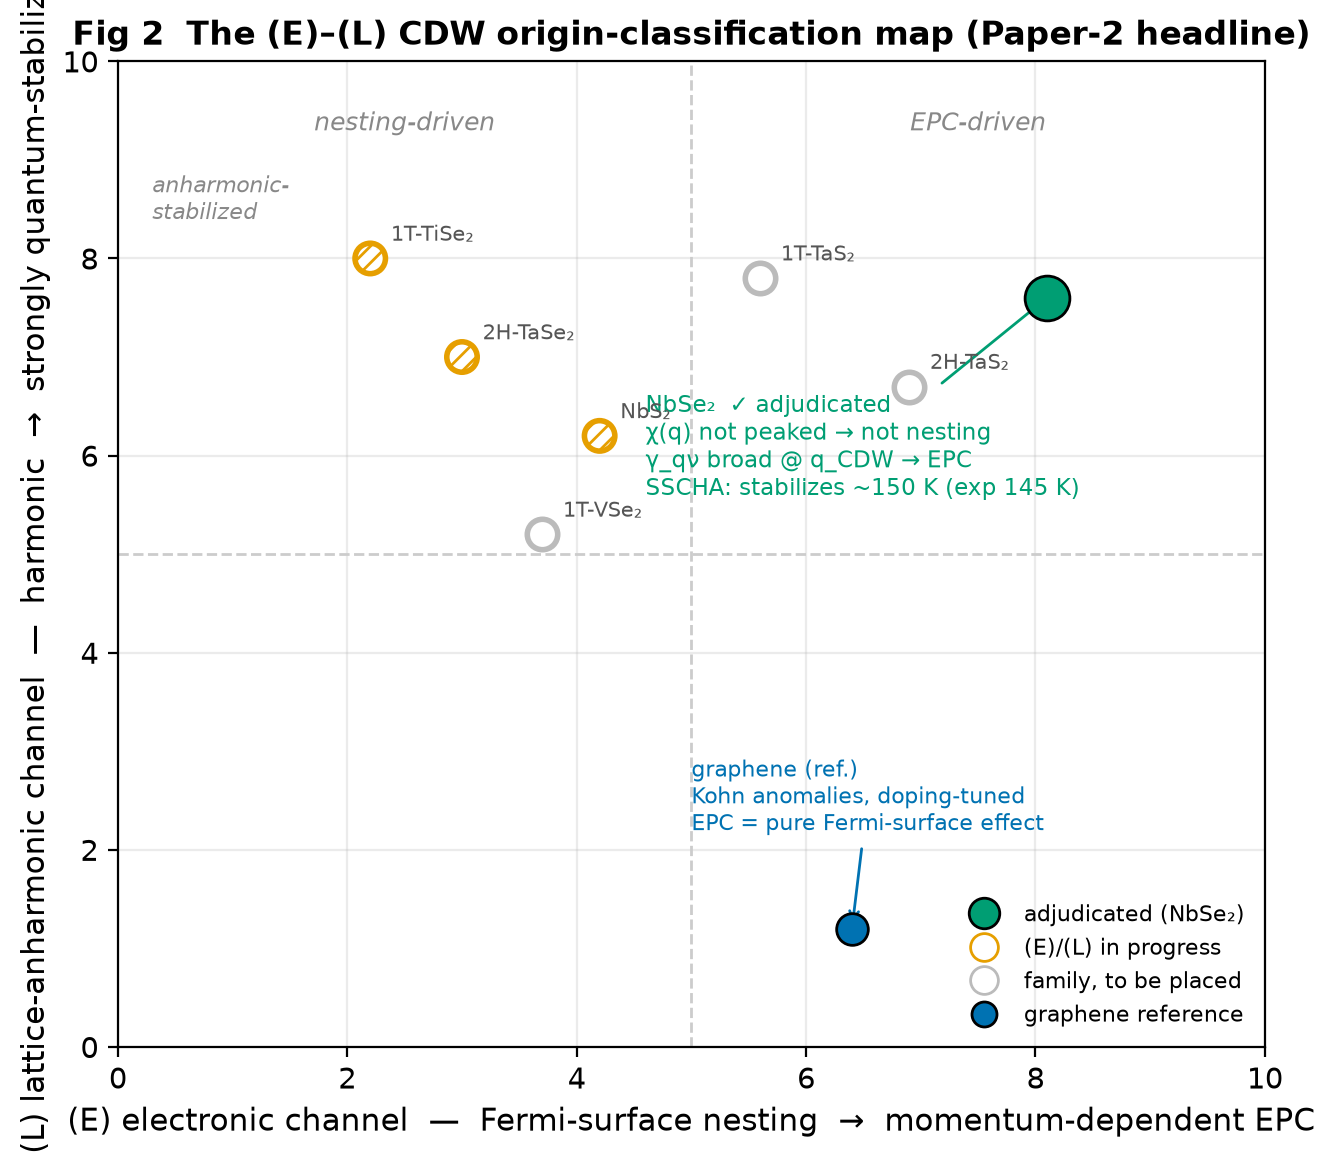
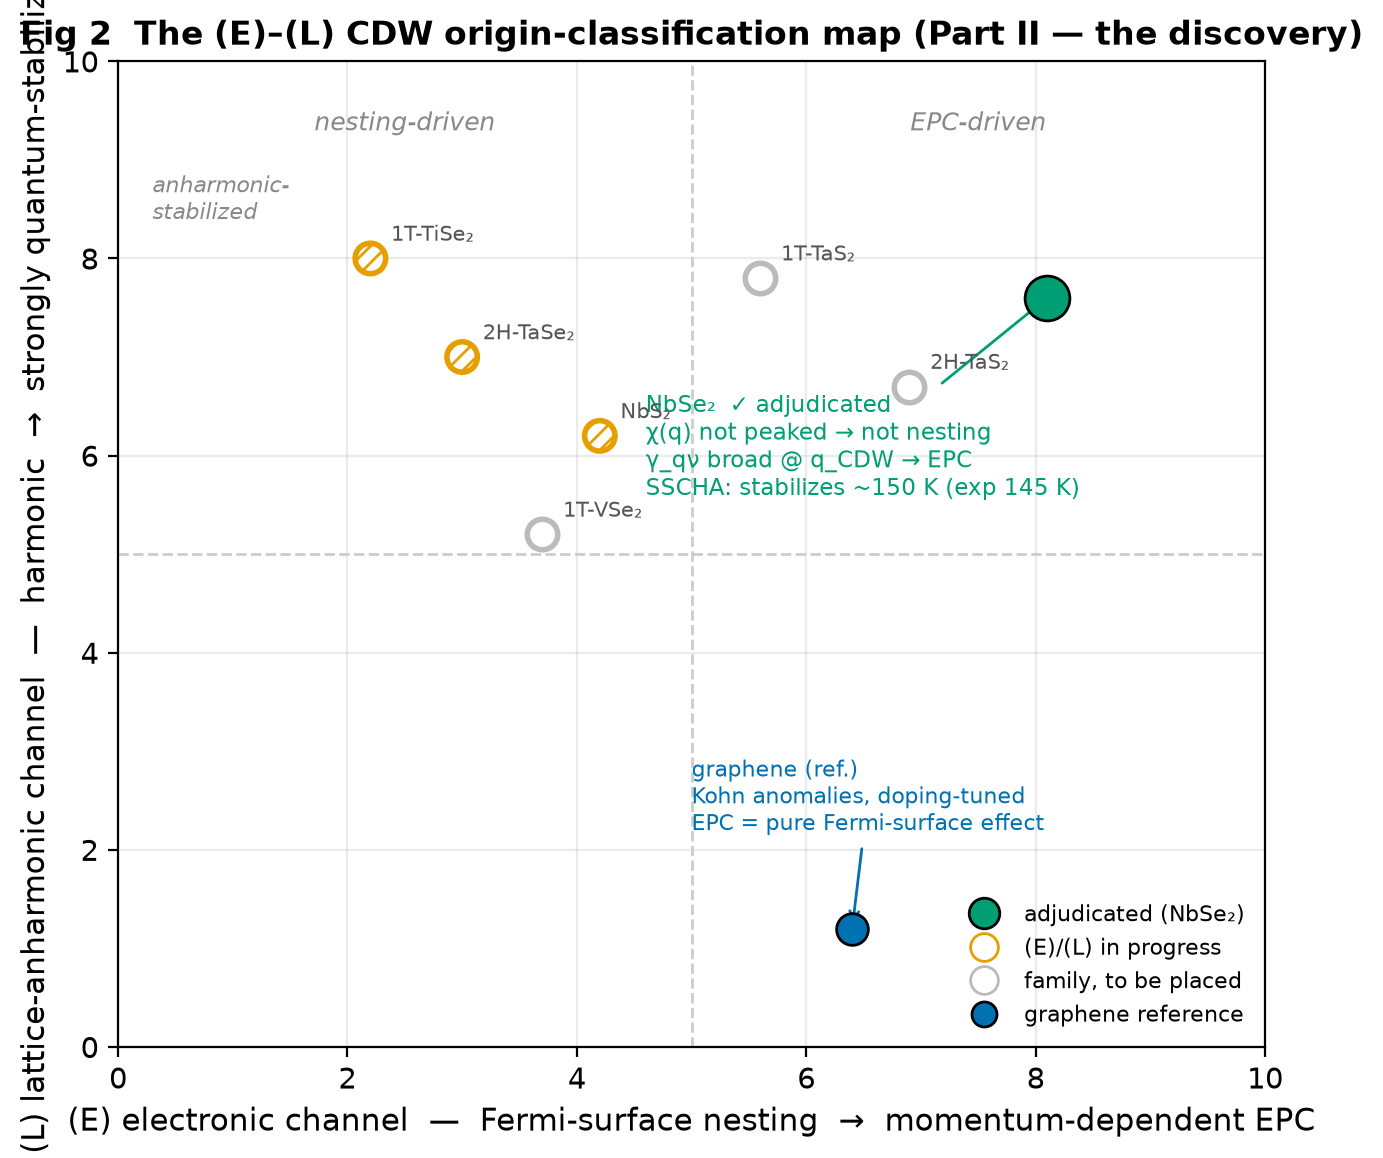
Strategy pivot: merge two papers -> ONE complete flagship paper (Part I + Part II)
Plan changed from two papers (npj 保底 + NCS 冲刺) to a single high-level paper
whose arc is method -> the discovery it enables:
  Part I  = the method (engine: blind-spot atlas + FC-distillation + Path-P + GPU-DFT + kappa)
  Part II = the discovery (TMD-family (E)/(L) CDW-origin map + the non-trivial finding)
Part II is integral (not a separate submission); the discovery is the completeness bar;
single flagship = higher variance, no npj fallback. SCOPE UNCHANGED — only packaging merges;
every planned experiment retained (anti-drift, tracked vs NCS_ROADMAP §0).

Updated: weekly report (§0/§1/§4/§5/§6 + Fig 2/Fig 3 regenerated), NCS_ROADMAP.md
(§0 discipline, §0b, phases, §7b honest-framing, §8 milestones, top banner),
H20_EXPERIMENT_PLAN.md, V100_EXPERIMENT_PLAN.md, PAPER.md. (Memory files updated out-of-repo.)

diff --git a/docs/weekly/plot_weekly.py b/docs/weekly/plot_weekly.py
@@ -34,7 +34,7 @@ def fig1_status_matrix():
               "(E)-EPW\nγ_qν", "(L)-SSCHA\nω(q,T)"]
     # 0 N/A(control) · 1 pending · 2 running · 3 done
     S = np.array([
-        [3,3,3,3,3],   # NbSe2  — all done (Paper-1 flagship)
+        [3,3,3,3,3],   # NbSe2  — all done (Part-I flagship)
         [3,3,3,2,1],   # 2H-TaSe2 — fc2/bands/PathP done, EPW running (box B), SSCHA pending
         [3,3,2,2,1],   # NbS2 — fc2/bands done, PathP running, EPW running (box A)
         [2,1,1,1,1],   # 1T-TiSe2 — fc2 running (box B)
@@ -82,7 +82,7 @@ def fig2_origin_map():
     ax.axvline(5, color="#ccc", lw=1, ls="--"); ax.axhline(5, color="#ccc", lw=1, ls="--")
     ax.set_xlabel("(E) electronic channel  —  Fermi-surface nesting  →  momentum-dependent EPC")
     ax.set_ylabel("(L) lattice-anharmonic channel  —  harmonic  →  strongly quantum-stabilized")
-    ax.set_title("Fig 2  The (E)–(L) CDW origin-classification map (Paper-2 headline)")
+    ax.set_title("Fig 2  The (E)–(L) CDW origin-classification map (Part II — the discovery)")
     # quadrant labels
     ax.text(2.5, 9.3, "nesting-driven", ha="center", color="#888", fontsize=9, style="italic")
     ax.text(7.5, 9.3, "EPC-driven", ha="center", color="#888", fontsize=9, style="italic")
@@ -142,7 +142,7 @@ def fig3_compute_budget():
            Patch(fc=CB["red"], label="rental FP64 — only if discovery gate passes")]
     ax.legend(handles=leg, loc="lower right", fontsize=8)
     ax.axvline(210, color="#888", ls=":", lw=1)
-    ax.text(210, len(rows)-0.4, " Paper-1 + go/no-go\n carried by machines in hand",
+    ax.text(210, len(rows)-0.4, " core-complete draft\n carried by machines in hand",
             fontsize=7.5, color="#666", rotation=0)
     fig.savefig(f"{OUT}/fig3_compute_budget.png"); plt.close(fig)
     print("wrote fig3_compute_budget.png")

diff --git a/docs/NCS_ROADMAP.md b/docs/NCS_ROADMAP.md
@@ -1,6 +1,11 @@
 # Roadmap → Nature Computational Science
 ## A foundation-model framework that repairs the phonon blind spot — and turns it into a discovery engine for electronically-driven lattice instabilities
 
+> **⚠ Strategy update (2026-07-01) — now ONE complete flagship paper (not two). Read §0.** The engine
+> (method) and the (E)/(L) CDW-origin decomposition (discovery) merge into a **single high-level paper** —
+> **Part I (method) + Part II (discovery)** — no npj保底 / NCS冲刺 split. *Scope is unchanged; only the
+> packaging merges.* Target: a single flagship submission (NCS / Nature Materials class).
+>
 > **⚠ Strategy update (2026-06-30) — reframed; read §0 first.** From *"near-DFT phonons at scale
 > (a tool)"* → *"a tool that enables a discovery."* A pure tool paper is a strong **npj** but a
 > low-probability **NCS** (the components — MLIP phonons, distillation, active learning — are each
@@ -65,11 +70,19 @@ incremental, and NCS increasingly wants a *scientific payoff*, not a faster tool
 **Explicitly OUT of scope:** **ballistic transport (NEGF/Landauer)** — different method family, no
 shared backbone; bolting it on reads as scope creep and *lowers* acceptance.
 
-**Two-paper discipline (保底 + 冲刺) — to stop the drift this update corrects:**
-- **Paper 1 — npj (保底, ~2–4 wk):** graphene+NbSe₂ = the engine (Line A/B backbone) + (E)/(L)
-  decomposition on the two flagships. Lockable from current results + the ASR fix.
-- **Paper 2 — NCS (冲刺, +2–4 mo):** the family origin-map + the discovery + open tool/dataset. Lands
-  the discovery → NCS; doesn't → folds into a strong second npj.
+**Single-flagship discipline (updated 2026-07-01) — ONE complete paper, tracked to stop drift:**
+The plan is now **one complete, high-level paper** (no longer two), whose arc is *method → the discovery
+it enables*:
+- **Part I — the method (~2–4 wk to submittable):** graphene+NbSe₂ = the engine (Line A/B backbone) +
+  (E)/(L) decomposition on the two flagships. Lockable from current results + the ASR fix.
+- **Part II — the discovery (+2–4 mo):** the TMD-family origin-map + the non-trivial CDW-origin finding
+  + open tool/dataset. **Integral, not optional** — the paper is not complete until it lands.
+- **Target:** a single flagship submission (Nature Computational Science / Nature Materials class) — the
+  complete method + discovery.
+- **Honest risk:** one flagship = higher variance, longer runway, **no npj保底 fallback**; needs both
+  halves airtight (the method half stays independently strong as an implicit floor).
+- **Anti-drift:** **scope is unchanged from the two-paper plan — only the packaging merges.** Every
+  experiment below (E1–E10 engine + the family origin-map/EPW/SSCHA/κ) is retained.
 
 **Execution rule (this update's real purpose):** from here, work is tracked against *this* merged
 plan; revisit it before every compute campaign and log advance-vs-drift. The prior drift — a session
@@ -81,7 +94,7 @@ spent deep on the B-line without reconciling against this roadmap — is exactly
 
 > Companion to §0. The full **engine** experiment list (E1–E10), public-data table, and engine
 > GPU-hour budget stay in §4 / §5 (unchanged). **This section is the actionable, resource-mapped plan
-> for the merged two-paper push, given the three machines actually in hand** and what is gated on rental.
+> for the merged single-flagship-paper push, given the three machines actually in hand** and what is gated on rental.
 
 **Machines in hand**
 
@@ -97,11 +110,11 @@ DFT/DFPT/EPW is the bottleneck (CPU, only the 2 V100s); MLIP / distillation / SS
 **Public (zero new DFT):**
 - MDR/PhononDB (10,034) + Petretto (1,521) harmonic DFPT → benchmark + FC-distillation labels (engine).
 - Togo phono3py κ DB → downstream κ reference. MPtrj → replay anti-forgetting.
-- **Experimental T_CDW / INS for the TMD family (literature)** → Paper-2 validation.
+- **Experimental T_CDW / INS for the TMD family (literature)** → Part-II (discovery) validation.
 
 **Self-generated (the 2 V100s):**
-- graphene + NbSe₂ DFT fc₂ / DFPT / dvscf / EPW — **done** (Paper-1 flagships).
-- **TMD family** (NbS₂, TaS₂, TaSe₂, TiSe₂, VSe₂, …) fc₂ + DFPT + dvscf — **to generate** (Paper 2).
+- graphene + NbSe₂ DFT fc₂ / DFPT / dvscf / EPW — **done** (Part-I flagships).
+- **TMD family** (NbS₂, TaS₂, TaSe₂, TiSe₂, VSe₂, …) fc₂ + DFPT + dvscf — **to generate** (Part II).
 
 **Data ENABLERS (gating, low-cost, do now — not rental):**
 - **Broad pseudopotentials**: have C/Nb/Se(+few); the TMD family needs **Ta, Ti, V, S**. **Download** on
@@ -124,7 +137,7 @@ as **box-h**, not GPU-h.
 | Diagnosis (E2) | ~50–100 |
 | FC-distillation + ablations (E3/E4) | ~100–200 |
 | Active-learning loop (E7→E8, MLIP side) | ~150–300 |
-| **(L)-channel SSCHA family screen** (Paper 2) | ~50–100 |
+| **(L)-channel SSCHA family screen** (Part II) | ~50–100 |
 | 10³–10⁴ MLIP phonon dataset (E8) | ~200–400 |
 | Cross-model generality (MatterSim/SevenNet/ORB) | ~50–100 |
 | κ — MLIP-force part (E9) | ~100–200 |
@@ -151,7 +164,7 @@ as **box-h**, not GPU-h.
 | **Rental subtotal (FP64)** | **~2,100–5,800 GPU-h** |
 
 **Summary.** ~900–1,800 GPU-h on **8×H20** (mostly zero new DFT) **+** ~110–210 **box-h** on the **2 V100s
-now** carries **Paper 1 to submission and Paper 2 to its go/no-go**. Only the **~2,100–5,800 FP64 GPU-h**
+now** carries the **single paper to a core-complete draft (Part I + the Part II origin-map)**. Only the **~2,100–5,800 FP64 GPU-h**
 of scale (engine demo + converged family EPW + κ-at-scale + 10³–10⁴ DFT labels) needs **rental — and only
 if the Phase-2 discovery gate passes**. *Ranges are wide; the two biggest unknowns are MLIP-inference
 speed (material size) and converged-EPW grid cost (could be 2–3× higher). A 3–5-material TMD pilot on the
@@ -163,25 +176,25 @@ current machines would re-calibrate every number above.*
 - **E-0a** conda-install full QE (q2r.x/matdyn.x) on Box A/B → crystal-ASR fix.
 - **E-0b** download Ta/Ti/V/S pseudopotentials (open-internet machine).
 
-**Phase 1 — Paper 1 lock** *(now · ~2–4 wk · no rental)*
+**Phase 1 — Part I (method) lock** *(now · ~2–4 wk · no rental)*
 - **E-1a** finish λ(T_el) campaign (running) + ASR re-pass on graphene/NbSe₂ → clean absolute λ.
 - **E-1b** convergence (k/q grid, smearing, supercell) on the flagships.
-- **E-1c** assemble graphene+NbSe₂ (engine + (E)/(L)) → **npj draft**.
+- **E-1c** assemble graphene+NbSe₂ (engine + (E)/(L)) → **Part-I draft**.
 
-**Phase 2 — Paper 2 discovery attempt** *(now · ~1–2 wk · no rental · THE NCS GATE)*
+**Phase 2 — Part II (discovery) attempt** *(now · ~1–2 wk · no rental · THE COMPLETENESS BAR)*
 - **E-2a** TMD-family triage: foundation-MLIP SSCHA on 2060 (no DFT) → rank likely-unstable.
 - **E-2b** fc₂ (finite-displacement) on candidates @ Box A/B [needs E-0b pseudos] → distill + **(L)-channel SSCHA** @ 2060.
 - **E-2c** **(E)-channel** — DFPT-vs-smearing + EPW γ_qν — on 3–5 flagship TMDs @ Box A/B.
 - **E-2d** build the **(E)–(L) origin-classification map**; hunt the non-trivial discovery (re-classification / predicted instability / T_CDW trend vs experiment).
-- **★ GATE:** discovery signal? → **yes** → rent + Phase 3; → **no** → fold into a strong second npj.
+- **★ the discovery** (integral to the paper): origin-map + ≥1 non-trivial result → then rent for the Phase-3 scale-up. If it underdelivers, strengthen/reposition — there is no npj fallback.
 
 **Phase 3 — scale for NCS** *(rental · +2–4 mo · only if the Phase-2 gate passes)*
 - **E-3a** family-wide converged EPW + κ-at-scale + benchmark atlas + 10³–10⁴ dataset + GPU-DFT engine demo.
 - **E-3b** open-source the instability-origin pipeline + dataset.
-- **E-3c** assemble **Paper 2 (NCS)**.
+- **E-3c** assemble the complete flagship paper (Part I method + Part II discovery).
 
 **Golden rule:** *don't rent until the Phase-2 discovery gate shows signal.* The 3 machines can carry
-Paper 1 to submission and Paper 2 to its go/no-go decision; rental buys only **scale**, after the
+the single paper to a core-complete draft (Part I + the Part II origin-map); rental buys only **scale**, after the
 science is de-risked.
 
 ---
@@ -378,7 +391,7 @@ displacements (wall-clock = GPU-hours / N_GPU).
   speedup decomposition (symmetry 48–384× *standard*; density+wfc reuse ~1.5× wall, iteration savings
   scale with SCF difficulty Si 1.0×→MgO 1.78×; GPU-SCF deferred); first **self-DFT phonon dataset**
   (11 materials, mean 1.4% vs MDR).
-- **B-line / anomaly thread** (`TD_PHONON_M1_RESULTS.md`) — **the seed of Paper 2 (§0):** (E)/(L)
+- **B-line / anomaly thread** (`TD_PHONON_M1_RESULTS.md`) — **the seed of Part II, the discovery (§0):** (E)/(L)
   decomposition validated on graphene + NbSe₂ — SSCHA quantum-stabilization, Path-P anharmonic
   distillation, EPW **γ_qν broad at q_CDW** (EPC-driven, not nesting), (E)-channel vs electronic T,
   doped-graphene λ turn-on. NbSe₂ = the **first TMD-family member adjudicated**.
@@ -401,23 +414,26 @@ displacements (wall-clock = GPU-hours / N_GPU).
   URLs all failed from the China box → download on an open-internet machine.)
 - **A100/V100 rental** — required for both hard bones (GPU-SCF and κ).
 
-**Honest framing (corrected 2026-06-30 — see §0):** the *method backbone is strong now*, and the
-accuracy engine + (E)/(L) decomposition on graphene+NbSe₂ is **~2–4 weeks from a strong npj (Paper 1,
-保底)**. But **NCS is *not* 2–4 weeks away** — the prior estimate conflated "npj-ready backbone" with
-"NCS." NCS needs the §0 **discovery half**: the TMD-family origin-map + a *non-trivial discovery* +
-open tool/dataset (**+2–4 months; ~25–40% even if the discovery lands**). The two resource decisions
-below gate the *engine*; the **discovery is the real NCS gate**.
+**Honest framing (updated 2026-07-01 — see §0):** the *method backbone is strong now* — the accuracy
+engine + (E)/(L) decomposition on graphene+NbSe₂ is **~2–4 weeks from a submittable Part I (method)**.
+But the **complete flagship paper is *not* 2–4 weeks away** — the prior estimate conflated a "ready
+method backbone" with the whole paper. The paper also needs the §0 **Part II discovery**: the TMD-family
+origin-map + a *non-trivial discovery* + open tool/dataset (**+2–4 months; the discovery is ~25–40%
+even if it lands**). The two resource decisions below gate the *engine*; the **discovery is the real
+completeness bar for the single paper** (higher variance, no npj fallback).
 
 ## 8. Milestones (indicative, ~6–9 months)
 - **M1 (1–2 mo):** E1 benchmark atlas + E2 diagnosis (public data). Submit-quality failure-mode figure.
 - **M2 (2–3 mo):** E3/E4 finalized with breadth law + generalization (pilot already done).
 - **M3 (3–5 mo):** E5 GPU-DFT engine ~50× demonstrated; E6 scoped.
 - **M4 (4–7 mo):** E7 active-learning loop beats random selection; E8 scale-out dataset.
-- **M5 (6–9 mo):** E9 downstream (κ/zT/stability) + E10; assemble, write, release tool+dataset → **Paper 1 (npj, 保底)**.
-- **M6 (Paper 2 — NCS, the §0 冲刺):** TMD-family (E)/(L) **origin-map** (cheap (L)-channel screen of
-  NbS₂/TaS₂/TaSe₂/TiSe₂/VSe₂ + (E)/EPW deep-dive on 3–5) → the origin-classification figure → **a
-  non-trivial discovery** → open instability-origin pipeline + dataset. *Gate = the discovery; ~+2–4 mo
-  after Paper 1; NCS probability ~25–40% if it lands, else folds into a strong second npj.*
+- **M5 (6–9 mo) — Part I complete:** E9 downstream (κ/zT/stability) + E10; the engine + (E)/(L) on the
+  two flagships assembled as **Part I (the method)** of the single paper.
+- **M6 — Part II, the discovery (the §0 headline; integral to the same paper):** TMD-family (E)/(L)
+  **origin-map** (cheap (L)-channel screen of NbS₂/TaS₂/TaSe₂/TiSe₂/VSe₂ + (E)/EPW deep-dive on 3–5) →
+  the origin-classification figure → **a non-trivial discovery** → open instability-origin pipeline +
+  dataset. *The discovery is the completeness bar; ~+2–4 mo after Part I is drafted; single flagship =
+  higher variance, ~25–40% if the discovery lands, no npj fallback.*
 
 > Honesty clauses to keep in the paper (credibility): pure GPU-DFT single-SCF is only ~5–15×; the
 > ~50× is workflow-level; the ~10³× is the MLIP proxy. Every speedup is reported with its scope and

diff --git a/docs/PAPER.md b/docs/PAPER.md
@@ -1,6 +1,6 @@
 # Data-efficient force-constant distillation for near-DFT phonons and thermal conductivity in foundation machine-learning potentials
 
-*Manuscript draft. Intended for npj Computational Materials / Nature Computational Science.*
+*Manuscript draft. Intended for one flagship submission aiming for a top venue (Nature Computational Science / Nature Materials class) — the single merged paper: Part I (the method) + Part II (the discovery).*
 
 **Authors.** [Author list TBD]
 **Affiliations.** [TBD]
